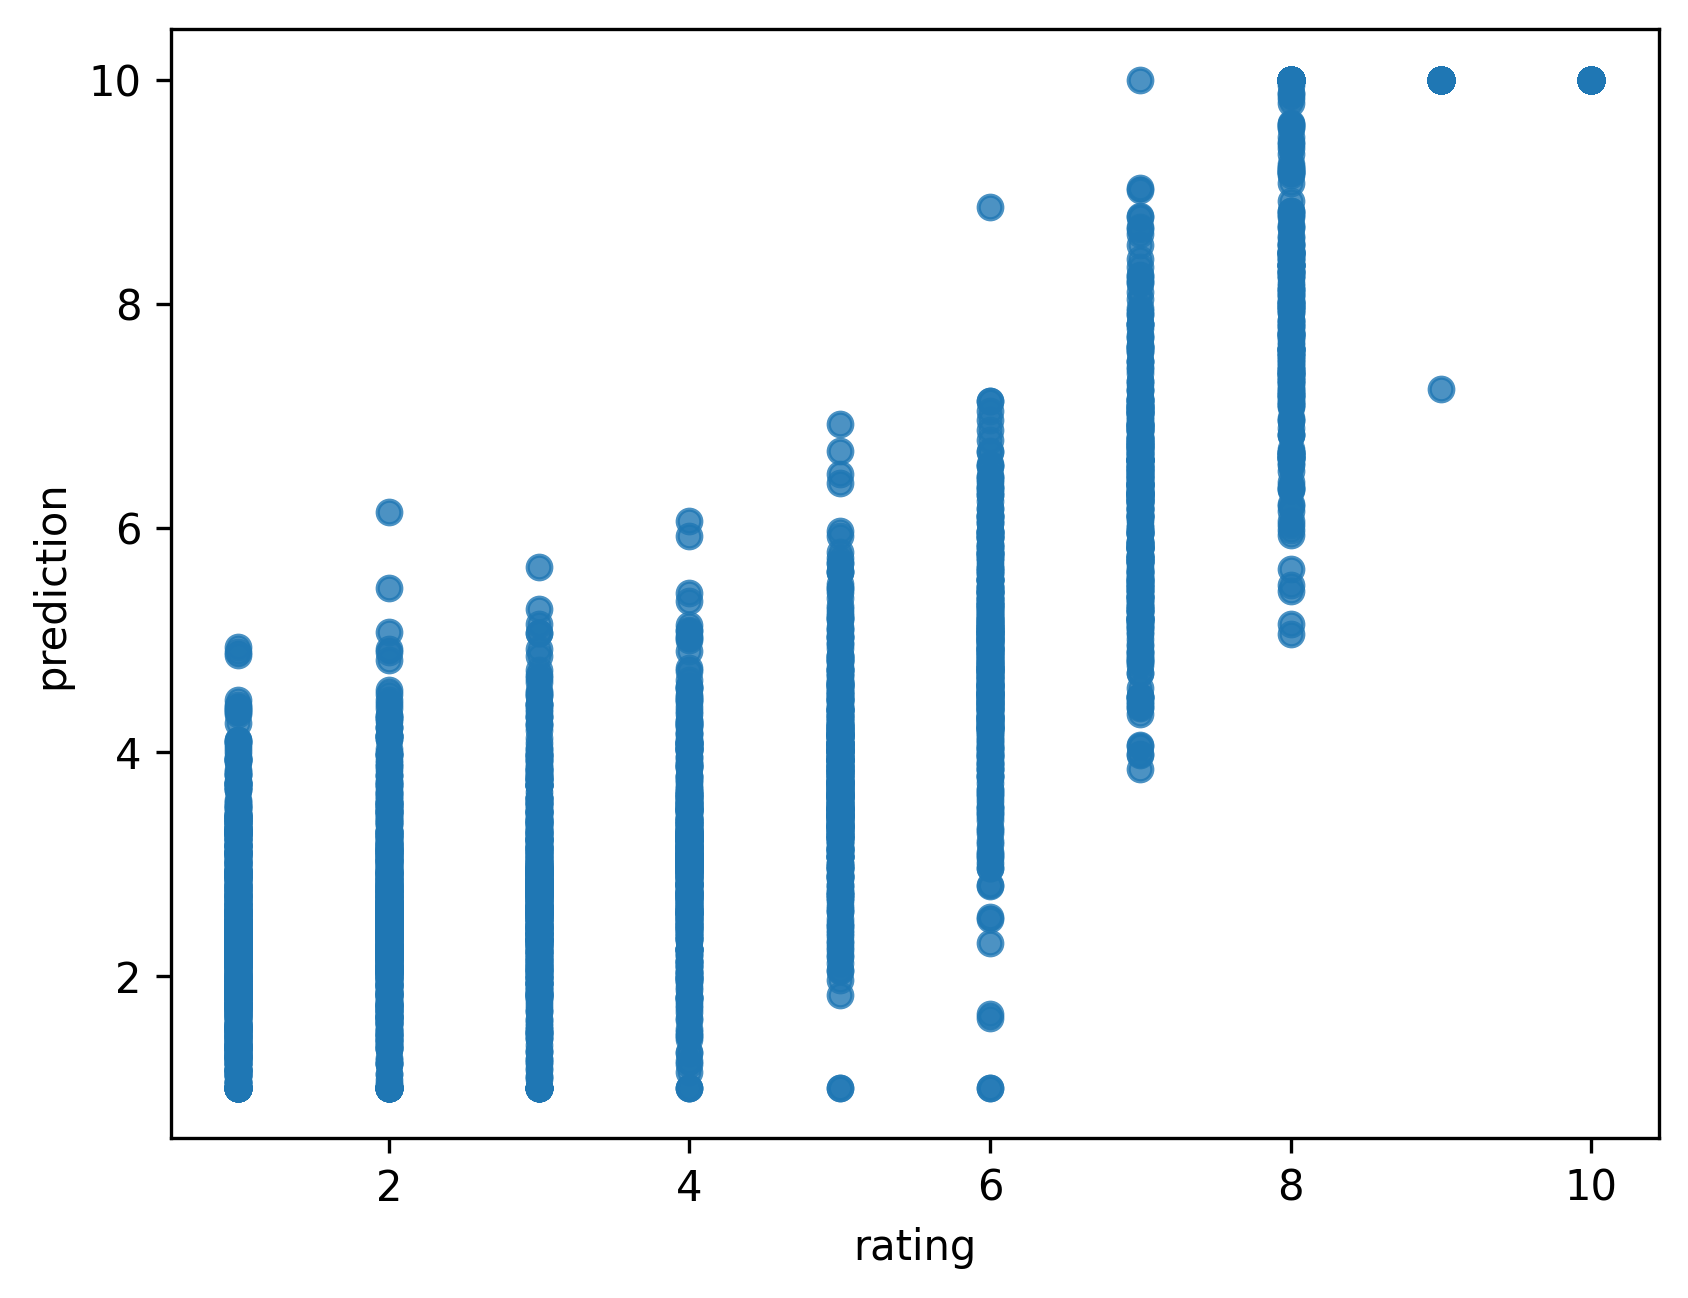
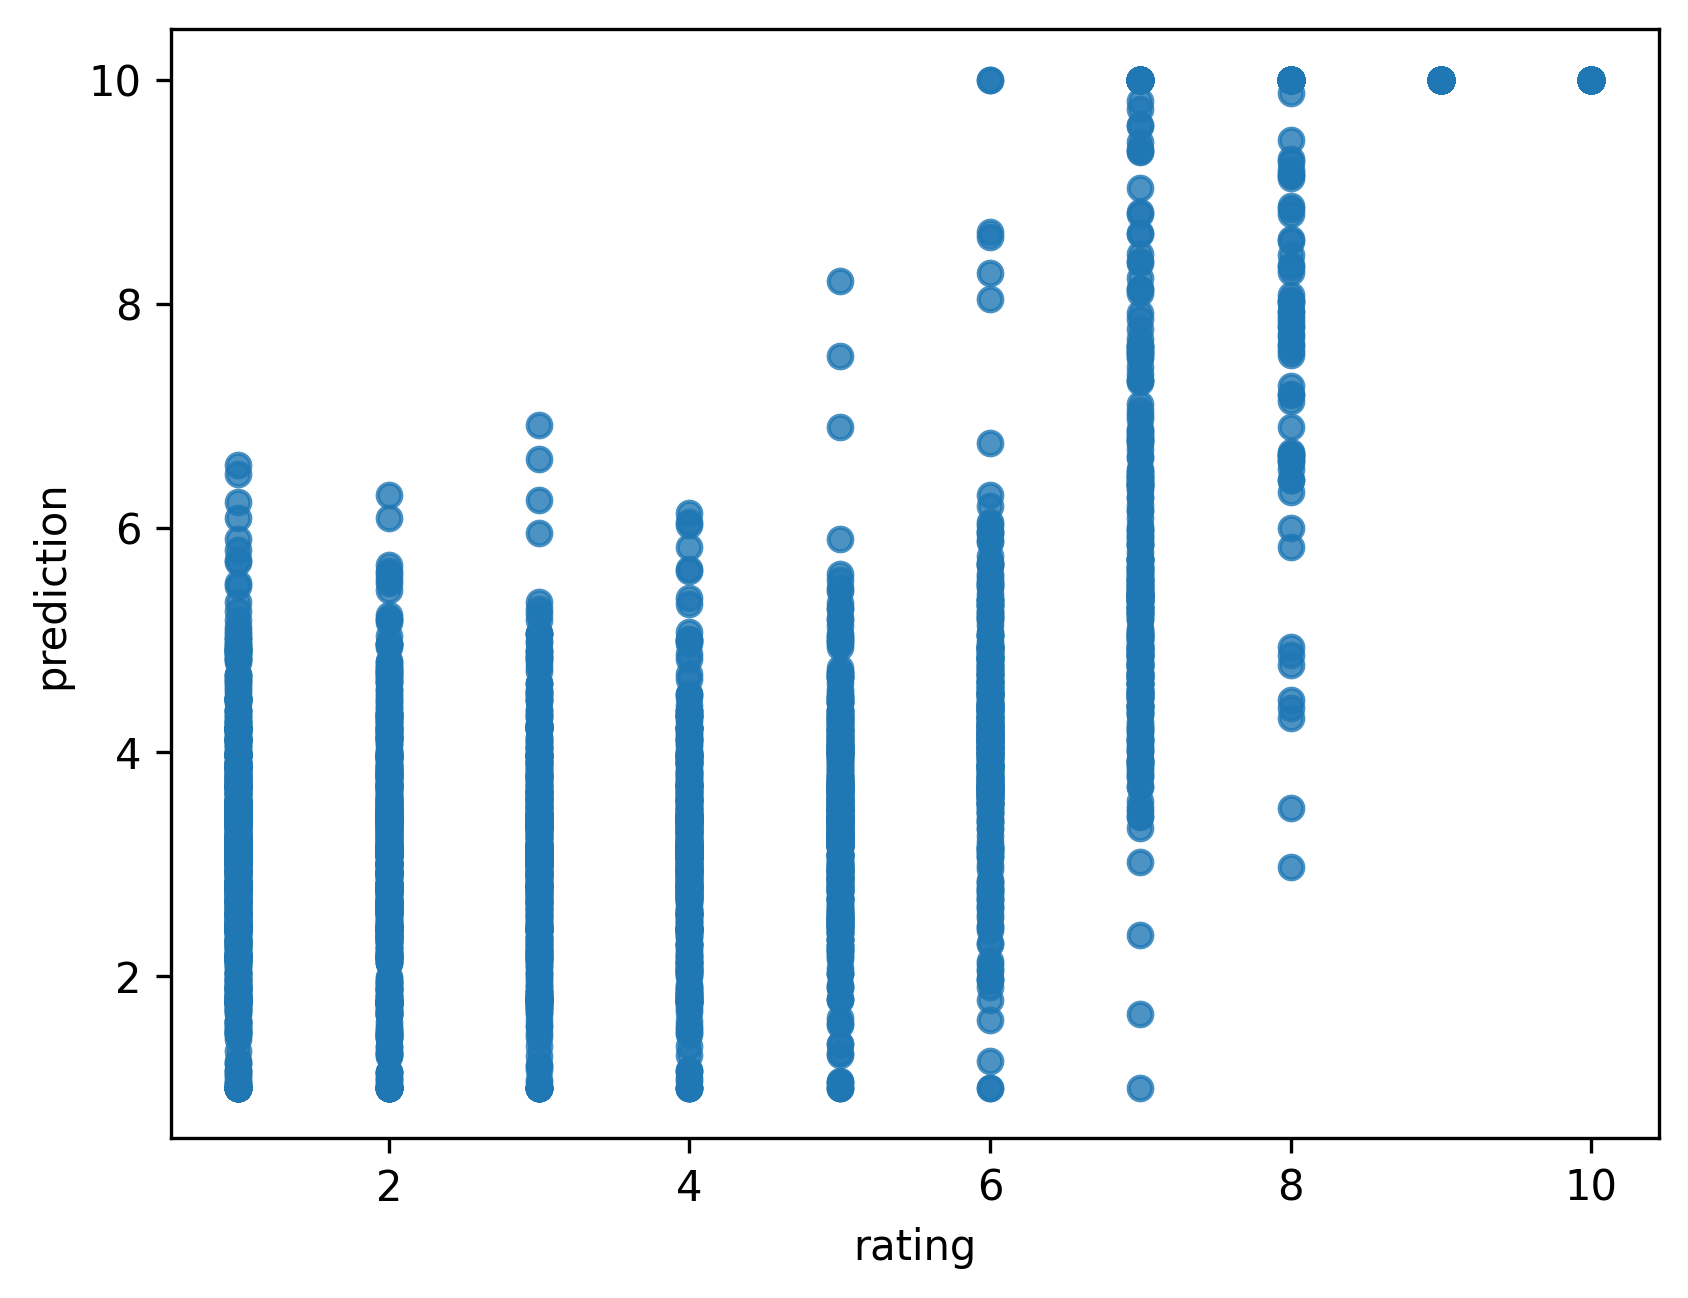
Add preds grafics for SVD++

diff --git a/src/main_surprise.py b/src/main_surprise.py
@@ -38,16 +38,16 @@ def get_top_k_preds(predictions, k=10):
     for _, preds in top_n.items():
         # Ordena las predicciones para cada usuario de mayor a menor score
         preds.sort(key=lambda x: x.est, reverse=True)
-        for rank, pred in enumerate(preds[:k], start=1):
+        for rank, pred in enumerate(preds, start=1):
             rows.append(
                 {
                     "user_id": pred.uid,
                     "item_id": pred.iid,
                     "prediction": pred.est,
+                    "rating": pred.r_ui,
                     "rank": rank,
-                    "target": int(
-                        pred.r_ui >= 7
-                    ),  # Ajusta este umbral según tu criterio
+                    "pred_target": int(pred.est >= 8),
+                    "target": int(pred.r_ui >= 8),
                 }
             )
     return pd.DataFrame(rows)
@@ -122,7 +122,12 @@ def main():
     accuracy.mae(predictions)
     accuracy.fcp(predictions)
 
-    generate_report(predictions, k=10)
+    recs = get_top_k_preds(predictions, k=10)
+    ax = recs.plot(kind="scatter", x="rating", y="prediction", s=32, alpha=0.8)
+    fig = ax.get_figure()
+    fig.savefig("ratings_vs_predictions_svd.png", dpi=300, bbox_inches="tight")
+
+    # generate_report(predictions, k=10)
 
 
 if __name__ == "__main__":
